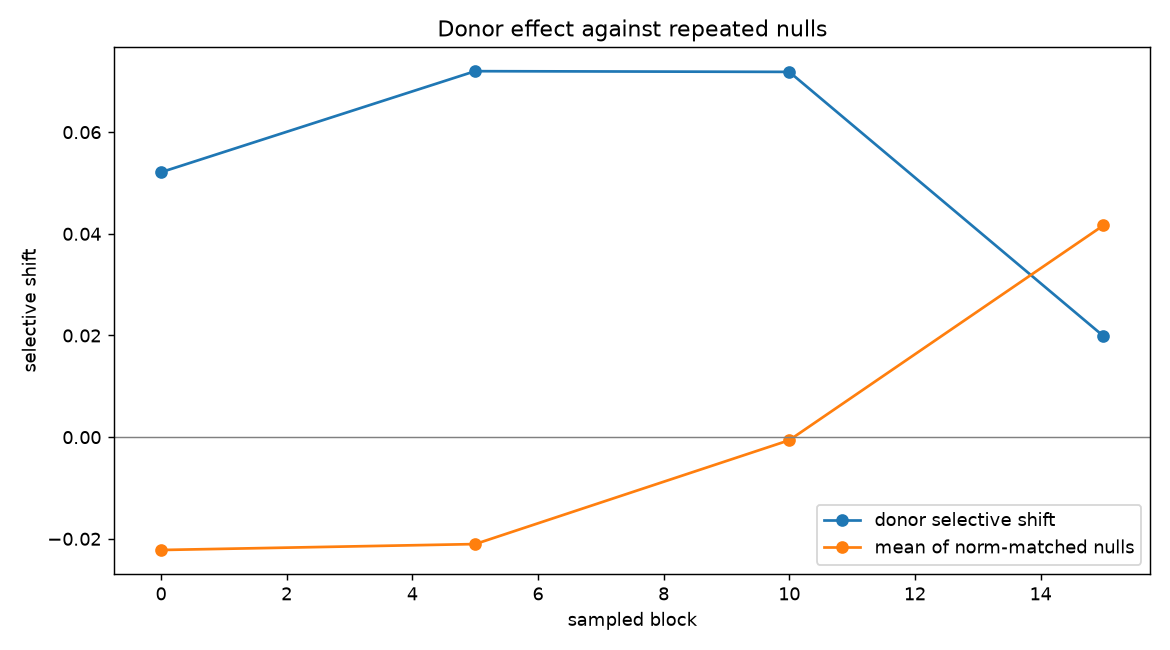
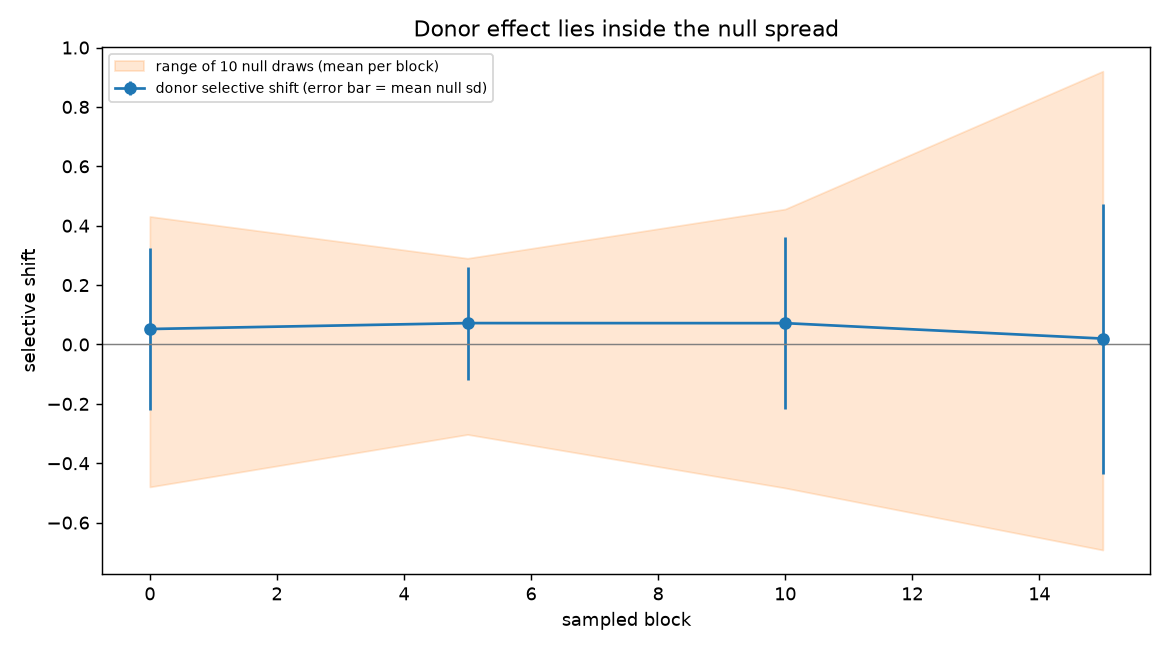
Show null spread in calibration figure; add offline redraw

diff --git a/replicate_flow.py b/replicate_flow.py
@@ -30,6 +30,7 @@ nie trafnoscia swobodnego generowania. Jedno pytanie i jeden model.
 """
 import argparse
 from collections import defaultdict
+import csv
 import json
 from pathlib import Path
 
@@ -233,15 +234,19 @@ def plots(out, cases, nulls):
         fig.tight_layout(); fig.savefig(out / 'replication.png', dpi=130); plt.close(fig)
     if nulls:
         fig, ax = plt.subplots(figsize=(9, 5))
-        for kind, marker in [('donor', 'o')]:
-            xs = sorted({r['layer'] for r in nulls})
-            ys = [np.mean([r['donor_selective'] for r in nulls if r['layer'] == x]) for x in xs]
-            ns = [np.mean([r['null_mean'] for r in nulls if r['layer'] == x]) for x in xs]
-            ax.plot(xs, ys, marker + '-', label='donor selective shift')
-            ax.plot(xs, ns, marker + '-', label='mean of norm-matched nulls')
+        layers = sorted({r['layer'] for r in nulls})
+        donor = [np.mean([r['donor_selective'] for r in nulls if r['layer'] == x]) for x in layers]
+        low = [np.mean([r['null_min'] for r in nulls if r['layer'] == x]) for x in layers]
+        high = [np.mean([r['null_max'] for r in nulls if r['layer'] == x]) for x in layers]
+        spread = [np.mean([r['null_sd'] for r in nulls if r['layer'] == x]) for x in layers]
+        ax.fill_between(layers, low, high, color='tab:orange', alpha=.18,
+                        label='range of 10 null draws (mean per block)')
+        ax.errorbar(layers, donor, yerr=spread, fmt='o-', color='tab:blue',
+                    label='donor selective shift (error bar = mean null sd)')
         ax.axhline(0, color='gray', linewidth=.8)
-        ax.set(xlabel='sampled block', ylabel='selective shift', title='Donor effect against repeated nulls')
-        ax.legend(); fig.tight_layout(); fig.savefig(out / 'nulls.png', dpi=130); plt.close(fig)
+        ax.set(xlabel='sampled block', ylabel='selective shift',
+               title='Donor effect lies inside the null spread')
+        ax.legend(fontsize=8); fig.tight_layout(); fig.savefig(out / 'nulls.png', dpi=130); plt.close(fig)
 
 
 def main():
@@ -250,7 +255,7 @@ def main():
     p.add_argument('--model', default='PiotrSty/gollem-v6-250m-sft-answers')
     p.add_argument('--revision', default=REVISION)
     p.add_argument('--out', type=Path, default=Path('runs/replicate'))
-    p.add_argument('--part', choices=['replicate', 'nulls', 'both'], default='replicate')
+    p.add_argument('--part', choices=['replicate', 'nulls', 'both', 'plot'], default='replicate')
     p.add_argument('--templates', nargs='+', choices=list(TEMPLATES), default=list(TEMPLATES))
     p.add_argument('--pairs', nargs='+', choices=list(PAIRS), default=list(PAIRS))
     p.add_argument('--fillers', type=int, nargs='+', default=[0, 4],
@@ -265,6 +270,20 @@ def main():
     p.add_argument('--threads', type=int, default=4)
     p.add_argument('--seed', type=int, default=20261027)
     args = p.parse_args()
+    if args.part == 'plot':
+        summary = json.loads((args.out / 'summary.json').read_text(encoding='utf-8'))
+        recorded = []
+        if (args.out / 'nulls.csv').exists():
+            with (args.out / 'nulls.csv').open(encoding='utf-8', newline='') as f:
+                recorded = list(csv.DictReader(f))
+                for row in recorded:
+                    for key in ('layer', 'draws', 'exceed'):
+                        row[key] = int(row[key])
+                    for key in ('donor_selective', 'null_mean', 'null_sd', 'null_min', 'null_max', 'p_empirical'):
+                        row[key] = float(row[key])
+        plots(args.out, summary['cases'], recorded)
+        print(f'Redrew figures from recorded data in {args.out.resolve()}', flush=True)
+        return
     if args.threads < 1 or len(set(args.fillers)) != len(args.fillers) or any(n < 0 for n in args.fillers):
         p.error('Threads must be positive; fillers distinct and nonnegative.')
     if args.null_draws < 2:

diff --git a/docs/REPLICATION_PROTOCOL.md b/docs/REPLICATION_PROTOCOL.md
@@ -63,3 +63,11 @@ python replicate_flow.py --part nulls --null-draws 10 --out runs/nulls
 ```
 
 Domyślnie model jest pobierany w przypiętej rewizji `3a60edc280d93fb73ead0f5a5ba220986525aa76`. Artefakty: `summary.json`, `cases.csv`, `traces.csv`, `nulls.csv`, `replication.png`, `nulls.png`.
+
+Wykresy można odtworzyć z zapisanych CSV bez ładowania modelu:
+
+```powershell
+python replicate_flow.py --part plot --out results/null-calibration
+```
+
+Wykres kalibracji pokazuje pasmo zakresu dziesięciu losowań null oraz słupek odchylenia standardowego przy efekcie dawcy. Sam efekt dawcy leży wewnątrz tego pasma — to jest właściwy wynik tego etapu, a nie relacja średnia-do-średniej.
